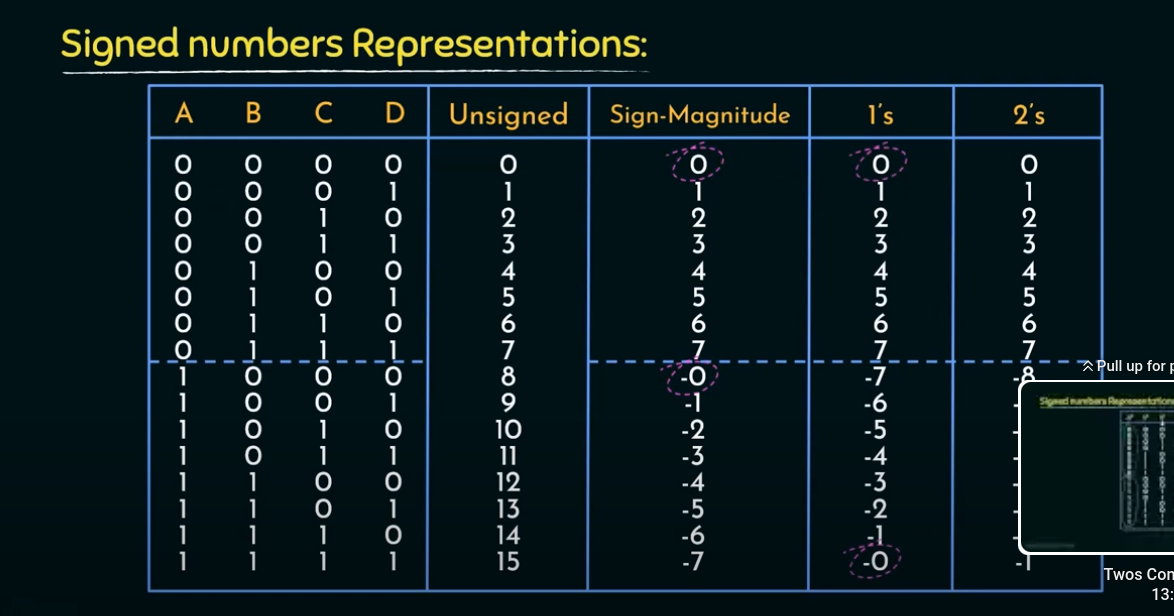
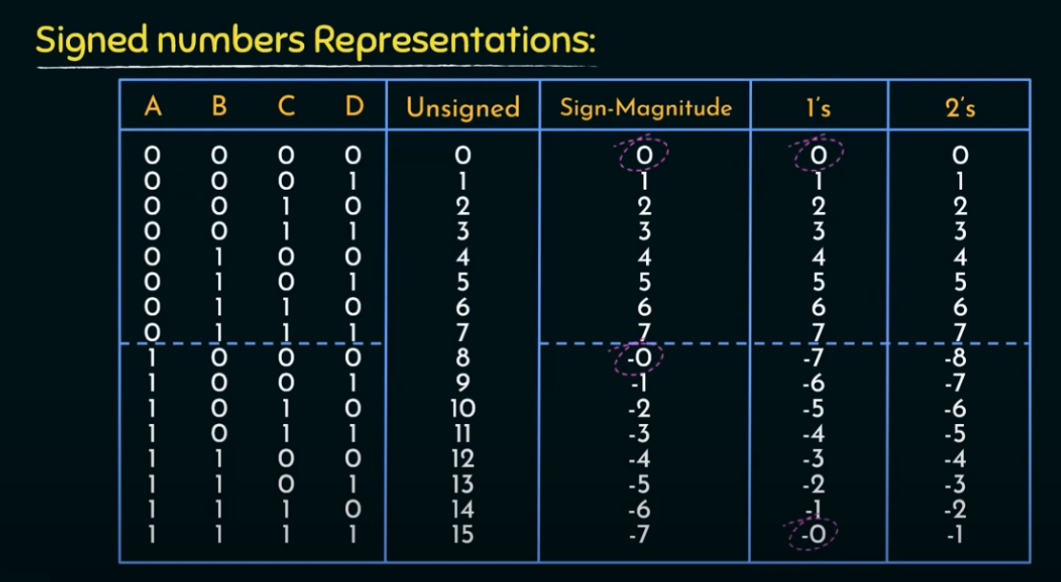
add Number representations

Changed region(s): [[0.0311, 0.0309, 1.0, 0.9897]]

diff --git a/lectures/Lecture14.md b/lectures/Lecture14.md
@@ -1,0 +1,281 @@
+---
+delivery date: 2024-09-03
+---
+# Quick Recap
+1. Classes
+---
+#### Today
+1. **Numeric representations (Decimal, Binary, Hexadecimal)**
+2. Data sizes
+3. Integer representation (unsigned vs 2"s complement)
+4. Integer arithmetic
+
+---
+#### Numeric representations
+
+| Representation  | Base | Symbols Used                          | Example Conversion |
+| --------------- | ---- | ------------------------------------- | ------------------ |
+| **Decimal**     | 10   | 0-9                                   | 255 (Decimal)      |
+| **Binary**      | 2    | 0, 1                                  | 11111111 (Binary)  |
+| **Hexadecimal** | 16   | 0-9, A-F (where A=10, B=11, ... F=15) | FF (Hexadecimal)   |
+
+---
+#### Conversion: Decimal to binary
+To convert a decimal number to binary:
+
+1. Divide the decimal number by 2.
+2. Write down the remainder.
+3. Use the quotient for the next division by 2.
+4. Repeat until the quotient is 0.
+5. The binary equivalent is the remainders read in reverse order.
+---
+#### Conversion: Decimal to binary(2)
+**Example: Decimal 13 to Binary**
+
+| Step | Operation  | Quotient | Remainder |
+| ---- | ---------- | -------- | --------- |
+| 1    | 13 ÷ 2 = 6 | 6        | 1         |
+| 2    | 6 ÷ 2 = 3  | 3        | 0         |
+| 3    | 3 ÷ 2 = 1  | 1        | 1         |
+| 4    | 1 ÷ 2 = 0  | 0        | 1         |
+
+So, **13 in decimal is `1101` in binary**.
+
+---
+#### Conversion: binary to decimal
+To convert a binary number to decimal:
+
+1. Write down the binary number.
+2. Assign powers of 2 to each bit, starting with 0 on the right.
+3. Multiply each bit by 2 raised to the power of its position.
+4. Sum all the results to get the decimal equivalent.
+---
+#### Conversion: binary to decimal(2)
+
+Example: Binary `1011` to Decimal
+
+|                  |       |       |         |     |     |
+| ---------------- | ----- | ----- | ------- | --- | --- |
+| **Binary Digit** | 1     | 0     | 1       | 1   |     |
+| **Bit Position** | 3     | 2     | 1       | 0   |     |
+| **Power of 2**   | 8     | 4     | 2       | 1   |     |
+| **Calculation**  | 1*8=8 | 0*4=0 | 1*2 = 2 | 0*1 | =11 |
+
+So, **`1011` in binary is `11` in decimal**.
+
+
+---
+#### Conversion: Binary to Hexadecimal
+1. **Group the Binary Number:**
+   - Starting from the rightmost bit (least significant bit) of the binary number, group the binary digits into sets of four. If the leftmost group has fewer than four digits, pad it with leading zeros.
+2. **Convert Each Group to Hexadecimal:**
+   - Convert each group of four binary digits into its corresponding hexadecimal
+---
+
+#### Example
+1. **Group the binary number:**
+   - `101101110011` becomes `1011 0111 0011`.
+
+2. **Convert each group to hexadecimal:**
+   - `1011` → `B`
+   - `0111` → `7`
+   - `0011` → `3`
+
+ `101101110011` => `B73` 
+
+---
+
+#### Bash : 
+```bash
+toBinary(){
+    local n bits remainder
+    # calculate quotient by bitwise right shift
+    # n >> k => n/2^k
+    for (( n=$1 ; n>0 ; n >>= 1 ));
+	    do
+		    # calculate remainder via bitwise and
+		    remainder="$(( n&1 ))"  
+		    bits="${remainder}${bits}";
+		done
+    printf "%s\n" "$bits"
+}
+
+toHex(){
+    printf "%x\n" $1
+}
+```
+---
+
+#### Today: Numeric representations 
+1. Numeric representations (Decimal, Binary, hexadecimal)
+2. **Data sizes**
+3. Integer representation (unsigned vs 2"s complement)
+4. Integer arithmetic
+---
+
+#### Sizes of C Numeric Data Types (in bytes)
+
+| Data Type | 32-bit Machine | 64-bit Machine |
+| --------- | -------------- | -------------- |
+| `char`    | 1              | 1              |
+| `short`   | 2              | 2              |
+| `int`     | 4              | 4              |
+| `long`    | 4              | 8              |
+| `float`   | 4              | 4              |
+| `double`  | 8              | 8              |
+| `pointer` | 4              | 8              |
+
+---
+#### Signed vs Unsigned
+By default all variables are signed i.e. they can be used to store both positive as well as negative values.
+In order to store only positive values, we can explicitly use unsigned keyword.
+
+```cpp
+# stores positve as well as negative values
+long i;
+float j;
+// will only store positive values
+unsigned long x; 
+unsigned float y;
+```
+---
+#### Byte ordering
+Byte ordering refers to the sequence in which bytes are arranged into larger numerical values when stored in memory.
+
+|                   | Little-Endian                                | Big-Endian                                  |
+| ----------------- | -------------------------------------------- | ------------------------------------------- |
+| **Definition**    | Stores the **least significant byte** first. | Stores the **most significant byte** first. |
+| **Memory Layout** | `0x12345`, it is stored as `00 00 30 39`.    | `0x12345` is stored as `39 30 00 00`.       |
+|                   |                                              |                                             |
+
+---
+#### Program to find out byte ordering
+```c
+#include <stdio.h>
+#include <stdlib.h>
+typedef unsigned char *byte_pointer;
+void show_bytes(byte_pointer start, int len) {
+	int i;
+	for (i = 0; i < len; i++){
+		printf(" %.2x", start[i]);
+	}
+	printf("\n");
+}
+
+void show_int(int x) {
+	show_bytes((byte_pointer) &x, sizeof(int));
+}
+
+int main(int argc, char const *argv[])
+{
+int x = atoi(argv[1]);
+show_int(x);
+return 0;
+}
+```
+
+
+---
+#### Today: Numeric representations 
+1. Numeric representations (Decimal, Binary, hexadecimal)
+2. Data sizes
+3. **Integer representation (unsigned vs 2"s complement)**
+4. Integer arithmetic
+---
+#### Unsigned vs. 2's Complement Notation
+
+| Feature              | Unsigned                               | 2's Complement                                  |
+| -------------------- | -------------------------------------- | ----------------------------------------------- |
+| **Range of Values**  | Represents only non-negative integers. | Represents both positive and negative integers. |
+| **Bits usage**       | All bits makes positive contribution   |                                                 |
+| **min-max (n bits)** | `0` to $2^n$ - 1                       | -$2^{(n-1)}$ to $2^{(n-1)} - 1$                 |
+| **Example (4 bits)** | `0000` = 0 to `1111` = 15              | `1000` = -8 to `0111` = 7                       |
+|                      |                                        |                                                 |
+
+---
+#### Example
+Unsigned representation
+
+| **Binary Digit** | 1     | 0     | 1       | 1   |     |
+| ---------------- | ----- | ----- | ------- | --- | --- |
+| **Bit Position** | 3     | 2     | 1       | 0   |     |
+| **Power of 2**   | 8     | 4     | 2       | 1   |     |
+| **Calculation**  | 1*8=8 | 0*4=0 | 1*2 = 2 | 0*1 | =11 |
+
+---
+#### Example
+2"s complement representation
+
+| **Binary Digit** | 1       | 0     | 1       | 1   |     |
+| ---------------- | ------- | ----- | ------- | --- | --- |
+| **Bit Position** | 3       | 2     | 1       | 0   |     |
+| **Power of 2**   | -8      | 4     | 2       | 1   |     |
+| **Calculation**  | 1*-8=-8 | 0*4=0 | 1*2 = 2 | 0*1 | =-6 |
+
+---
+![image](https://github.com/Ankush-Chander/IT603-notes/blob/main/lectures/images/number_representations.png?raw=true)
+Image credits: [Neso Academy - Youtube](https://www.youtube.com/watch?v=-CEJXDeDsAQ&list=PLBlnK6fEyqRgLLlzdgiTUKULKJPYc0A4q&index=64)
+
+---
+#### Today: Numeric representations 
+1. Numeric representations (Decimal, Binary, hexadecimal)
+2. Data sizes
+3. Integer representation (unsigned vs 2"s complement)
+4. **Integer arithmetic**
+---
+---
+#### Unsigned addition(1)
+1. **Align the Binary Numbers**: Ensure both numbers have the same number of bits. 
+2. **Perform Binary Addition**: Add the bits starting from the rightmost bit, carrying over to the next bit when the sum exceeds 1. 
+3. **Check for Carry-Out**: After the final bit is added, check for a carry-out from the most significant bit (MSB). Carry from the MSB is discarded.
+---
+#### Unsigned addition(2)
+$x+^{u}_{w} y = (x + y)\text{ }mod\text{ }2^{w}$
+
+| x           | y           | x+y           | (x+y) mod 16 |                   |
+| ----------- | ----------- | ------------- | ------------ | ----------------- |
+| 8<br>[1000] | 7<br>[0111] | 15<br>[1111]  | 15<br>[1111] | Normal            |
+| 8<br>[1000] | 9<br>[1001] | 17<br>[10001] | 1<br>[0001]  | Positive overflow |
+
+---
+#### 2's Complement Addition(1) 
+1. **Align the Binary Numbers**: Ensure both numbers have the same number of bits. 
+2. **Perform Binary Addition**: Add the bits starting from the rightmost bit, just like unsigned binary addition.
+3. **Check for Carry**: Carry from the MSB is discarded in 2's complement addition.
+---
+
+| x            | y            | x+y            | $x+^{t}_{4}y$ |                   |
+| ------------ | ------------ | -------------- | ------------- | ----------------- |
+| -8<br>[1000] | -5<br>[1011] | -13<br>[10011] | 3<br>[0011]   | Negative overflow |
+| -8<br>[1000] | -8<br>[1000] | -16<br>[10000] | 0<br>[0000]   | Negative overflow |
+| −8<br>[1000] | 5<br>[0101]  | −3<br>[11101]  | −3<br>[1101]  | Normal            |
+| 2<br>[0010]  | 5<br>[0101]  | 7<br>[00111]   | 7<br>[0111]   | Normal            |
+| 5<br>[0101]  | 5<br>[0101]  | 10<br>[01010]  | −6<br>[1010]  | Positive overflow |
+
+---
+#### Unsigned multiplication
+
+$$
+x*^{u}_{w} y = (x * y)\text{ }mod\text{ }2^{w}
+$$
+$$\text{where w=4 bits,  min=0,  max=15}$$
+
+| x           | y           | x*y           | $x*^{u}_{w} y$           |          |
+| ----------- | ----------- | ------------- | ------------------------ | -------- |
+| 5<br>[0101] | 4<br>[0100] | 20<br>[10100] | 20 mod 16=4<br>[0100]    | Overflow |
+| 5<br>[0101] | 3<br>[0011] | 15<br>[01111] | 15 mod 16 = 15<br>[1111] | Normal   |
+|             |             |               |                          |          |
+
+---
+#### 2"s complement multiplication
+Operands: w bits
+True product: 2*w bits
+Discard w most significant bits. 
+
+---
+#### References
+1. CSAPP 2.2, 2.3
+2. [Computer Organization & Architecture (COA) - YouTube - Number system videos](https://www.youtube.com/playlist?list=PLBlnK6fEyqRgLLlzdgiTUKULKJPYc0A4q)
+---
+
+
